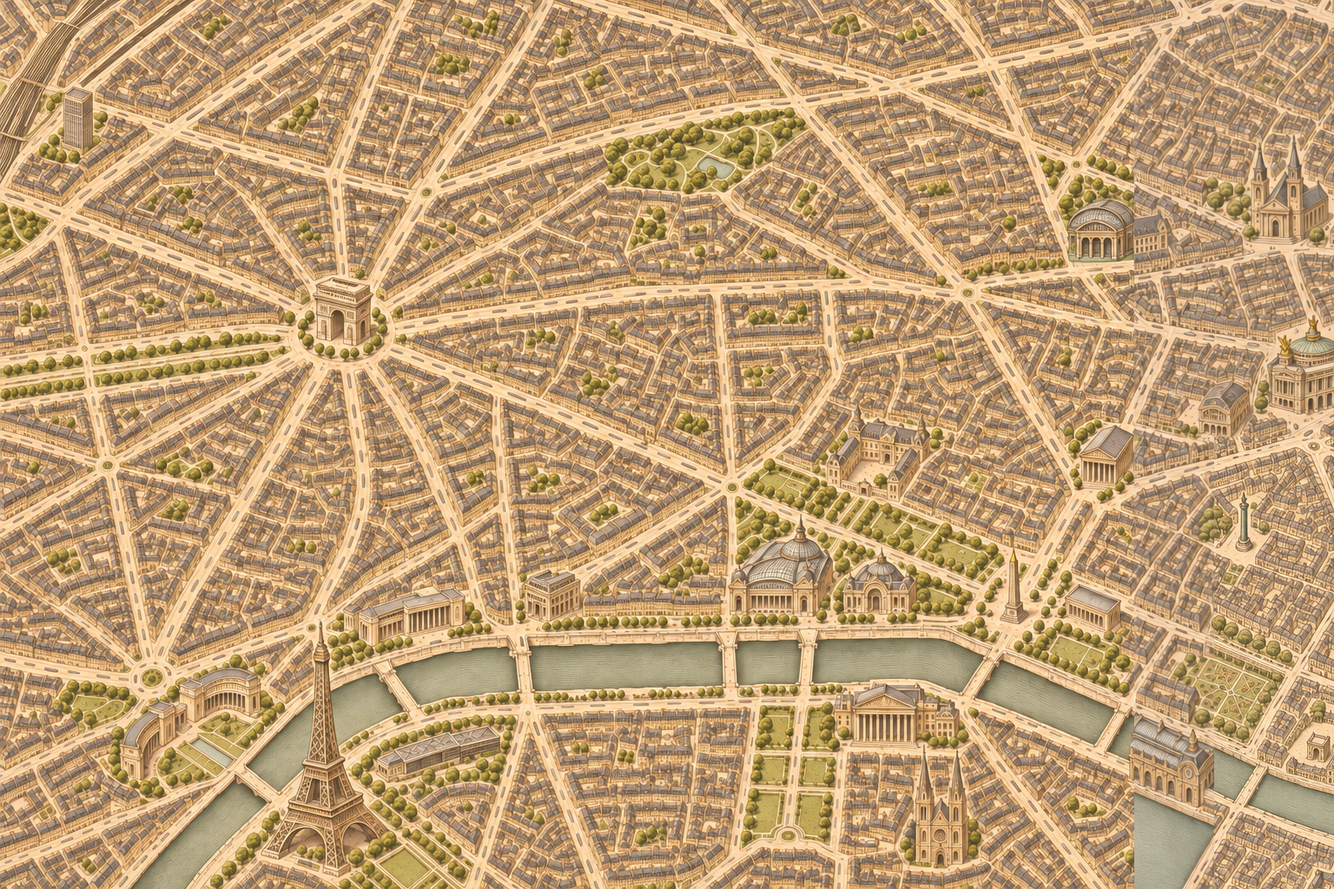
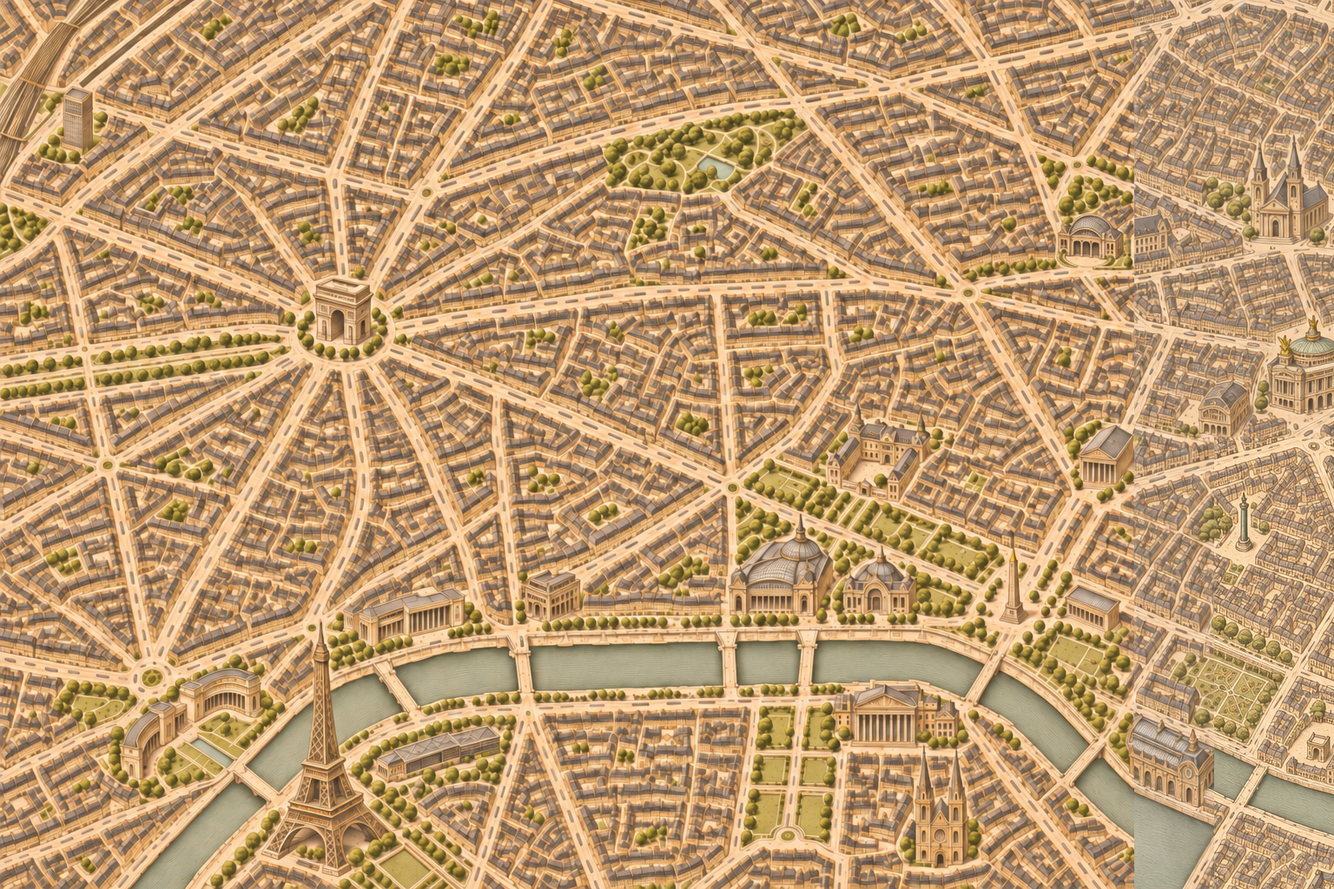
Correct Paris05 river continuity and complete Saint-Lazare west of lock

Changed region(s): [[0.0, 0.0, 0.875, 1.0]]

diff --git a/posti/pariisi-palat-1-15-20261102/pala05/SAUMA-HUOMIO.md b/posti/pariisi-palat-1-15-20261102/pala05/SAUMA-HUOMIO.md
@@ -1,3 +1,5 @@
-# Saint-Lazaren palaraja
+# Pala05 v2: korjattu 3.11.2026
 
-Aseman kokonainen etujulkisivu on palan 05 puolella. Katon takareuna kohtaa lukitun pala06:n x=1306 lähellä y=230–310; tästä jää ennen kokoamishäivytystä näkyvä liitos. Kuva on toimitettu Karttasepän kokoamisvaiheeseen, ei saumattomaksi loppukaupungiksi kuitattuna. Lukittuja pikseleitä ei muutettu tämän peittämiseksi. Tarkista erityisesti tämä rajakohta kokoamisessa.
+Korvaa v1:n saumaehdokkaan. Seine kaartuu kaakkoon ja sen vesi jatkuu lukittuun pala06/10:n vesialueeseen. Saint-Lazaren etujulkisivu, katto ja itäpääty ovat nyt kokonaan lukon länsipuolella, itäreuna noin x1290. Kohteen havaittu etualapiste [1254,300].
+
+Lukittujen pikselien ero 0. Vastaanottajan uusi saumakatselmus vielä avoin; tätä ei merkitä hyväksytyksi ennen kuittausta.
